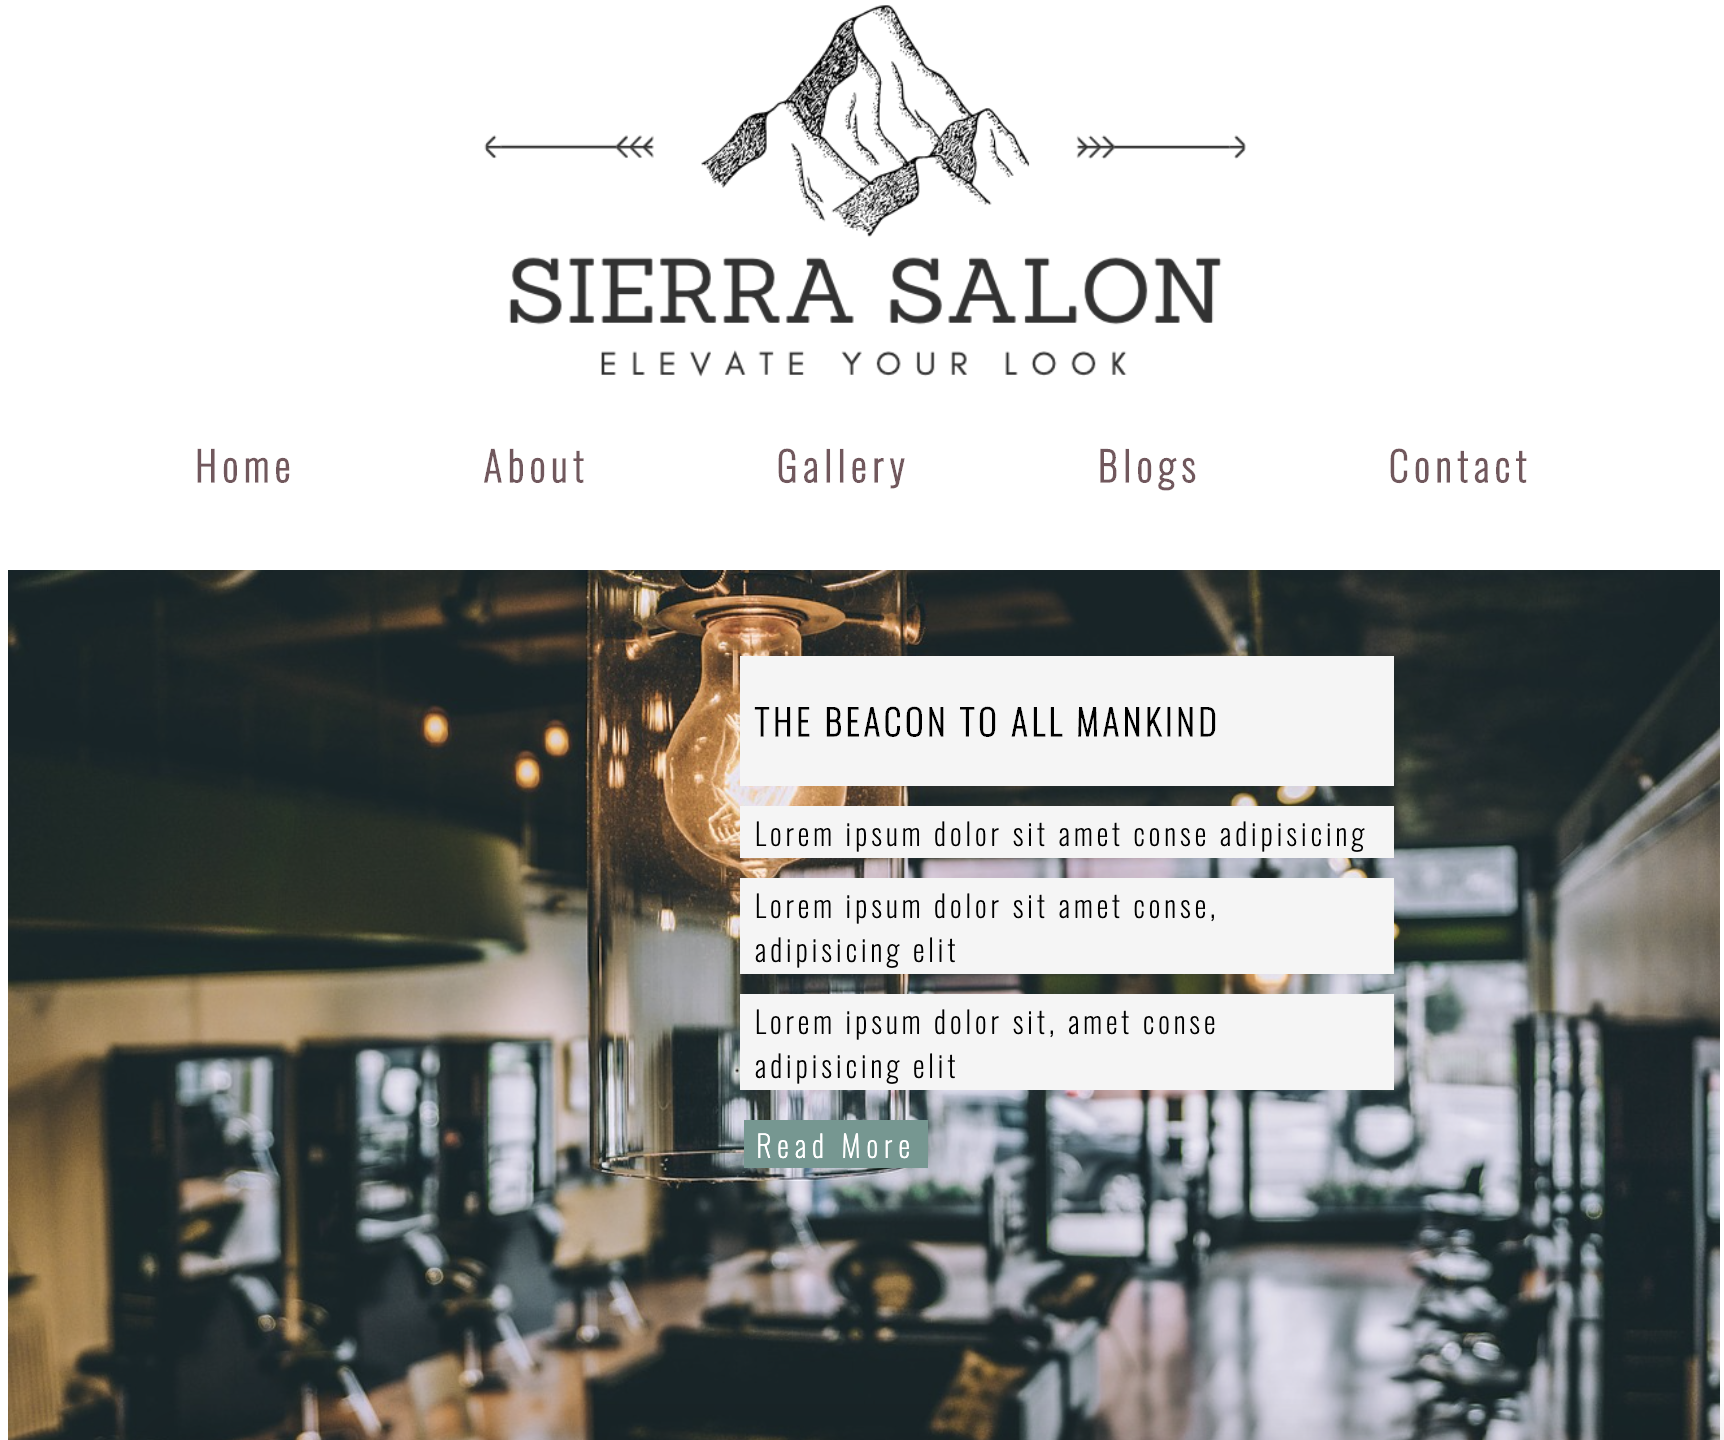
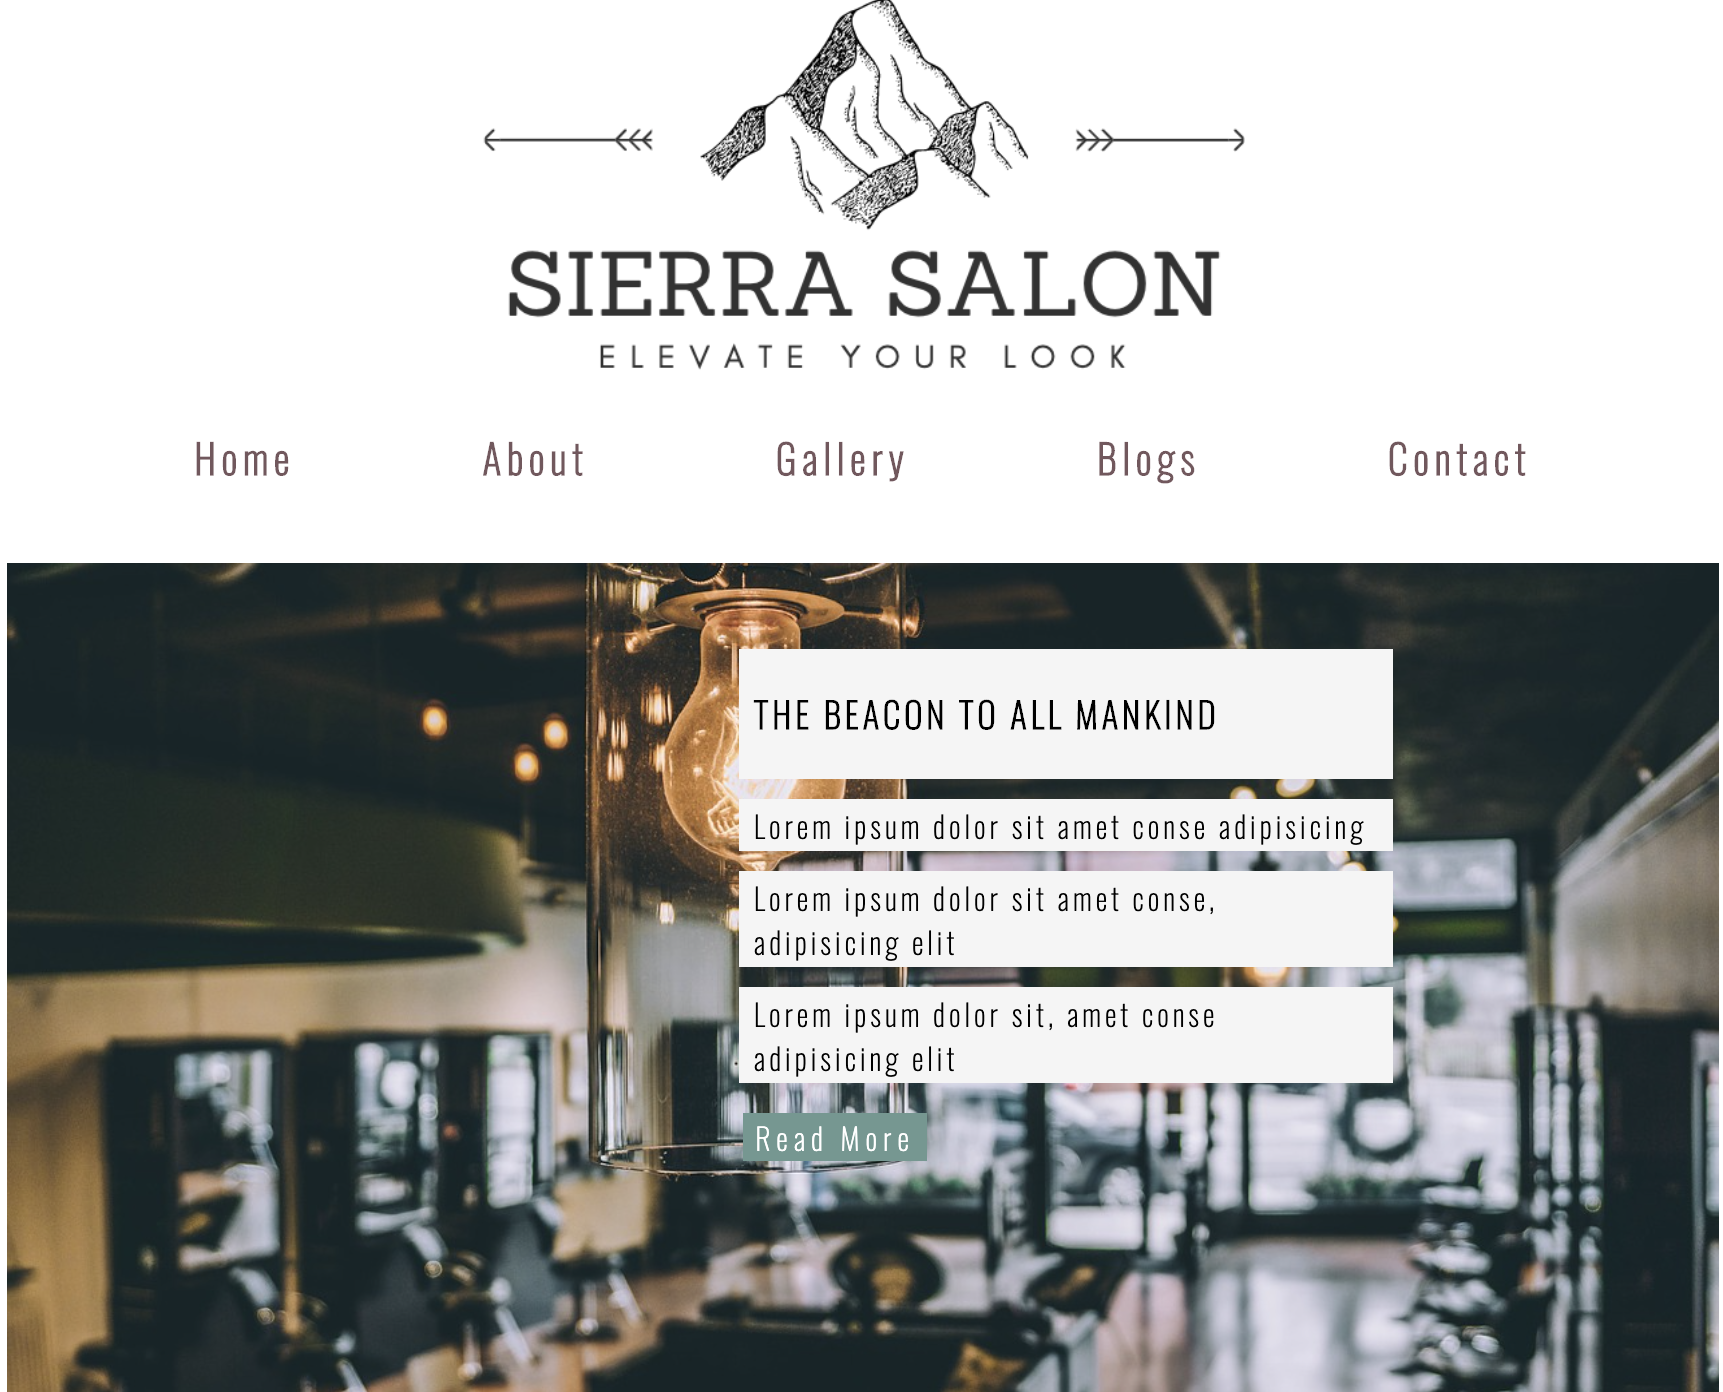
added 3 more projects to work section

diff --git a/index.html b/index.html
@@ -110,7 +110,8 @@
                                    <p> I'm a design-oriented front-end developer who strives to build immersive and
                                         beautiful web applications through carefully crafted code and user-centric
                                         design.
-                                        <br>Always Curious | Always Learning</p>
+                                        <br>Always Curious | Always Learning
+                                   </p>
                                    <p>Let's Chat! Just shoot me a message at <a
                                              href="mailto:destinyfsetzer@gmail.com">destinyfsetzer@gmail.com</a>.</p>
                               </div>
@@ -125,6 +126,8 @@
                               <li><a href="https://medium.com/@destinysetzer" target="_blank" class="fa fa-medium"></a>
                               </li>
                               <li><a href="https://github.com/destinyfsetzer" target="_blank" class="fa fa-github"></a>
+                              </li>
+                              <li><a href="https://codepen.io/destinyfsetzer" target="_blank" class="fa fa-codepen"></a>
                               </li>
                          </ul>
                     </div>
@@ -218,20 +221,20 @@
                     <div class="col-md-4 col-sm-6">
 
                          <div class="work-thumb">
-                              <img src="./images/baber-landing.png" class="img-responsive" alt="Work">
+                              <img src="./images/beerMe.png" class="img-responsive" alt="Work">
 
 
                          </div>
                          <div class="work-overlay">
-                              <h4>Sierra Salon</h4>
-                              <h5>Html, CSS, & Bootstrap</h5>
-                              <h6> Designed a small business site which includes a blog, contact form, image
-                                   gallery, and landing page.
+                              <h4>BeerMe</h4>
+                              <h5>React, Material UI, Express, MySQL, & Gearhost</h5>
+                              <h6> BeerMe is a craft beer library and recommendation app utilizing the
+                                   breweryDB API.
                               </h6>
                               <div class="project-buttons">
-                                   <a href="https://destinyfsetzer.github.io/barber-shop/"
-                                        class="btn section-btn smoothScroll">View Live</i></a>
-                                   <a href="https://github.com/destinyfsetzer/barber-shop"
+                                   <a href="https://beer-me-tx.herokuapp.com/" class="btn section-btn smoothScroll">View
+                                        Live</i></a>
+                                   <a href="https://github.com/destinyfsetzer/beer-me-app"
                                         class="btn section-btn smoothScroll">View Code</i></a>
                               </div>
                          </div>
@@ -257,6 +260,83 @@
                          </div>
                     </div>
 
+               </div>
+          </div>
+
+          <div class="work-2">
+               <div class="container">
+                    <div class="row">
+
+                         <div class="clearfix"></div>
+
+                         <div class="col-md-4 col-sm-6">
+
+                              <div class="work-thumb">
+                                   <img src="./images/pigLatin.png" class="img-responsive" alt="Work">
+
+
+
+                              </div>
+                              <div class="work-overlay">
+                                   <h4>Pig Latin-ator</h4>
+                                   <h5>Vanilla JavaScript, CSS, & Bootstrap</h5>
+                                   <h6>Translate any word into pig latin with the click of a button
+                                   </h6>
+                                   <div class="project-buttons">
+                                        <a href="https://destinyfsetzer.github.io/JS211_PigLatinProject/"
+                                             class="btn section-btn smoothScroll">View
+                                             Live</i></a>
+                                        <a href="https://github.com/destinyfsetzer/JS211_PigLatinProject/tree/PigLatin-GUI"
+                                             class="btn section-btn smoothScroll">View Code</i></a>
+                                   </div>
+
+                              </div>
+
+                         </div>
+
+                         <div class="col-md-4 col-sm-6">
+
+                              <div class="work-thumb">
+                                   <img src="./images/baber-landing.png" class="img-responsive" alt="Work">
+
+
+                              </div>
+                              <div class="work-overlay">
+                                   <h4>Sierra Salon</h4>
+                                   <h5>HTML, CSS, & Bootstrap</h5>
+                                   <h6> Designed a small business site which includes a blog, contact form, image
+                                        gallery, and landing page.
+                                   </h6>
+                                   <div class="project-buttons">
+                                        <a href="https://destinyfsetzer.github.io/barber-shop/"
+                                             class="btn section-btn smoothScroll">View Live</i></a>
+                                        <a href="https://github.com/destinyfsetzer/barber-shop"
+                                             class="btn section-btn smoothScroll">View Code</i></a>
+                                   </div>
+                              </div>
+                         </div>
+
+                         <div class="col-md-4 col-sm-6">
+
+                              <div class="work-thumb">
+                                   <img src="./images/Hacker-Rank.png" class="img-responsive" alt="Work">
+
+
+                              </div>
+                              <div class="work-overlay">
+                                   <h4>Hacker News</h4>
+                                   <h5>React, API fetching/redering, HTML, CSS</h5>
+                                   <h6>Stay up to date with tech news with this Hacker News clone</h6>
+                                   <div class="project-buttons">
+                                        <a href="https://keen-mestorf-d6f5b7.netlify.app/"
+                                             class="btn section-btn smoothScroll">View Live</i></a>
+                                        <a href="https://github.com/destinyfsetzer/HackerNews"
+                                             class="btn section-btn smoothScroll">View Code</i></a>
+                                   </div>
+                              </div>
+                         </div>
+
+                    </div>
                </div>
           </div>
      </section>

diff --git a/css/style.css b/css/style.css
@@ -334,7 +334,7 @@ a:hover, a:active, a:focus {
 }
 
 #home .home-img {
-  background: url('https://images.unsplash.com/photo-1576502200916-3808e07386a5?ixlib=rb-1.2.1&auto=format&fit=crop&w=1346&q=80') no-repeat;
+  background: url('https://images.unsplash.com/photo-1581265463006-f019c3419709?ixid=MXwxMjA3fDB8MHxwaG90by1wYWdlfHx8fGVufDB8fHw%3D&ixlib=rb-1.2.1&auto=format&fit=crop&w=664&q=80') no-repeat;
   /* background: url('https://images.unsplash.com/photo-1581265463006-f019c3419709?ixlib=rb-1.2.1&ixid=eyJhcHBfaWQiOjEyMDd9&auto=format&fit=crop&w=664&q=80') no-repeat; */
   background-size: cover;
   background-position: 50% 50%;
@@ -452,6 +452,10 @@ a:hover, a:active, a:focus {
   position: relative;
   top: 0;
 
+}
+
+.work-2 {
+  margin-top: 30px;
 }
 
 .work-thumb img:hover{
